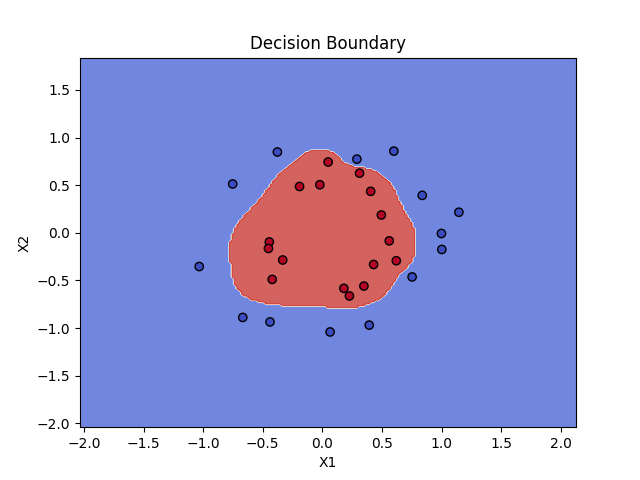
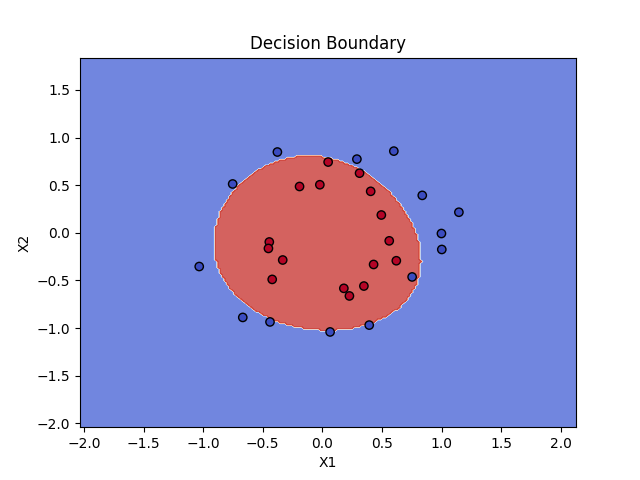
Update logbook

Changed region(s): [[0.3125, 0.3125, 0.6562, 0.6875], [0.5625, 0.3438, 0.625, 0.4375]]

diff --git a/report/extra/logbook.tex b/report/extra/logbook.tex
@@ -105,9 +105,9 @@ Per svolgere una prima fase eplorativa l'architettura delle SVM è stata testata
 
 \paragraph{SK-Learn} La classe SVC implementa il modello di suppor vector machine per la classificazione.
 Questo metodo risulta essere il più veloce come tempo di esecuzione per via dei binding a librerie scritte nativamente in \textsc{C++}.
-Oltre alle tempistiche è anche l'approccio che riporta risultati migliori in termini di generalizzazione.
-Seppure le principali misure di scoring sono paragonabili tra i vari modelli, si può valutare in modo qualitativo il decision boundary creato,
-che con la libreria SK-Learn risulta essere quello che ci aspetterebbe intuitivamente considerando il dataset di riferimento.
+Bisogna notare come il modello di SVM implementato sia leggermente diverso rispetto alla formulazione standard, 
+questa differenza è dovuta al fatto che nelle SVC viene applicata una regolarizzazione di tipo L2,
+con la finalità di stabilizzare la distribuzione dei risultati.
 
 \begin{figure}[H]
   \centering
@@ -125,14 +125,7 @@ Una volta scritto il problema è possibile inizializzare un solver general purpo
   \includegraphics[width=\linewidth]{img/decision_boundary_gurobi.png}
 \end{figure}
 
-Per quanto i risultati siano paragonabili in quanto a metriche si può notare come il decision boundary prodotto tenda all'overfitting,
-questo potrebbe essere dovuto principalemente a due fattori:
-\begin{enumerate}
-  \item Numero troppo ridotto di esempi di training,
-  \item Errata parametrizzazione che porta ad un ottimo globale indesiderato.
-\end{enumerate}
-Tra queste meriterebbe maggiore analisi la seconda, in quanto la libreria SK-Learn ha dimostrato empiricamente che anche con un ridotto numero di esempi è possibile ottenere un buon classificatore.
-È interessante la differenza prodotta in quanto i parametri passati ad entrambe le metodologie sono gli stessi, sarebbe quindi ragionevole aspettarsi una risultato pressoché identico.
+I risultati prodotti sono paragonabili a quanto ottenuto tramite la libreria, e nonostante l'overhead di \textsc{PyOmo} il tempo di esecuzione rimane ragionevolmente contenuto.
 
 \paragraph{D-Wave} Utilizzando il solver ibrido per i problemi di soddisfacimento di vincoli quadratici è possibile scrivere il problema di ottimizzazione in modo analogo a come avviene su \textsc{PyOmo} anche con le librerie D-Wave.
 In questo caso il problema viene formalizzato, inviato al solver in remoto e viene restituita la risposta, con i livelli di energia associati.
@@ -144,9 +137,9 @@ inoltre siccome i processi di ottimizzazione quantistica si aspettano problemi d
   \includegraphics[width=\linewidth]{img/decision_boundary_dwave.png}
 \end{figure}
 
-Anche in questo caso si verifica una situazione di overfitting paragonabile a quanto sperimentato con l'ottimizzatore Gurobi.
 È interessante notare che la discretizzazione delle variabili di ottimizzazione non incida sulla qualità del risultato, 
-in quanto a livello quantitativo le metriche restituiscono sempre valori paragonabili.
+in quanto le metriche restituiscono sempre valori paragonabili.
+In questo caso, seppure i valori numerici siano paragonabili, i tempi richiesti per la computazione aumentano sensibilmente, soprattutto per via della comunicazione con il solver remoto.
 
 Ottenendo come risposta dal risolutore di D-Wave una lista di possibili soluzioni,
 è possibile implementare una procedura concettualmente simile all'ensemble learning. 
@@ -278,6 +271,18 @@ Il gruppo più frequente contiene 42 elementi, e il grafo prodotto assume la seg
 
 Si può notare come il numero di nodi sia maggiore di quanto conteggiato precedentemente, questo perché sono presenti 4 coppie di nodi che collassano in un unico nodo nel grafo minore.
 Nella figura riportata non sono segnalati gli archi che collegano una catena di nodi in quanto questo può variare in base al seed randomico fornito.
+
+Per analizzare la distribuzione sul grafo pegasus sono stati delineati 16 ripartizioni uguali, 
+verificando su quali fosse più probabile trovare l'embedding.
+
+Si osserva la seguente distribuzione:
+
+\begin{figure}[H]
+  \centering
+  \includegraphics[width=\linewidth]{img/heatmap.png}
+\end{figure}
+
+Come si può notare, non si evincono differenze sostanziali.
 
 \paragraph{Scalabilità del problema}
 Oltra ad una analisi di alto livello sugli embedding prodotti dal dataset \textsc{Toy} è interessante verificare fino a che punto è possibile fare crescere il problema di ottimizzazione prima di superare i limiti fisici della QPU.
